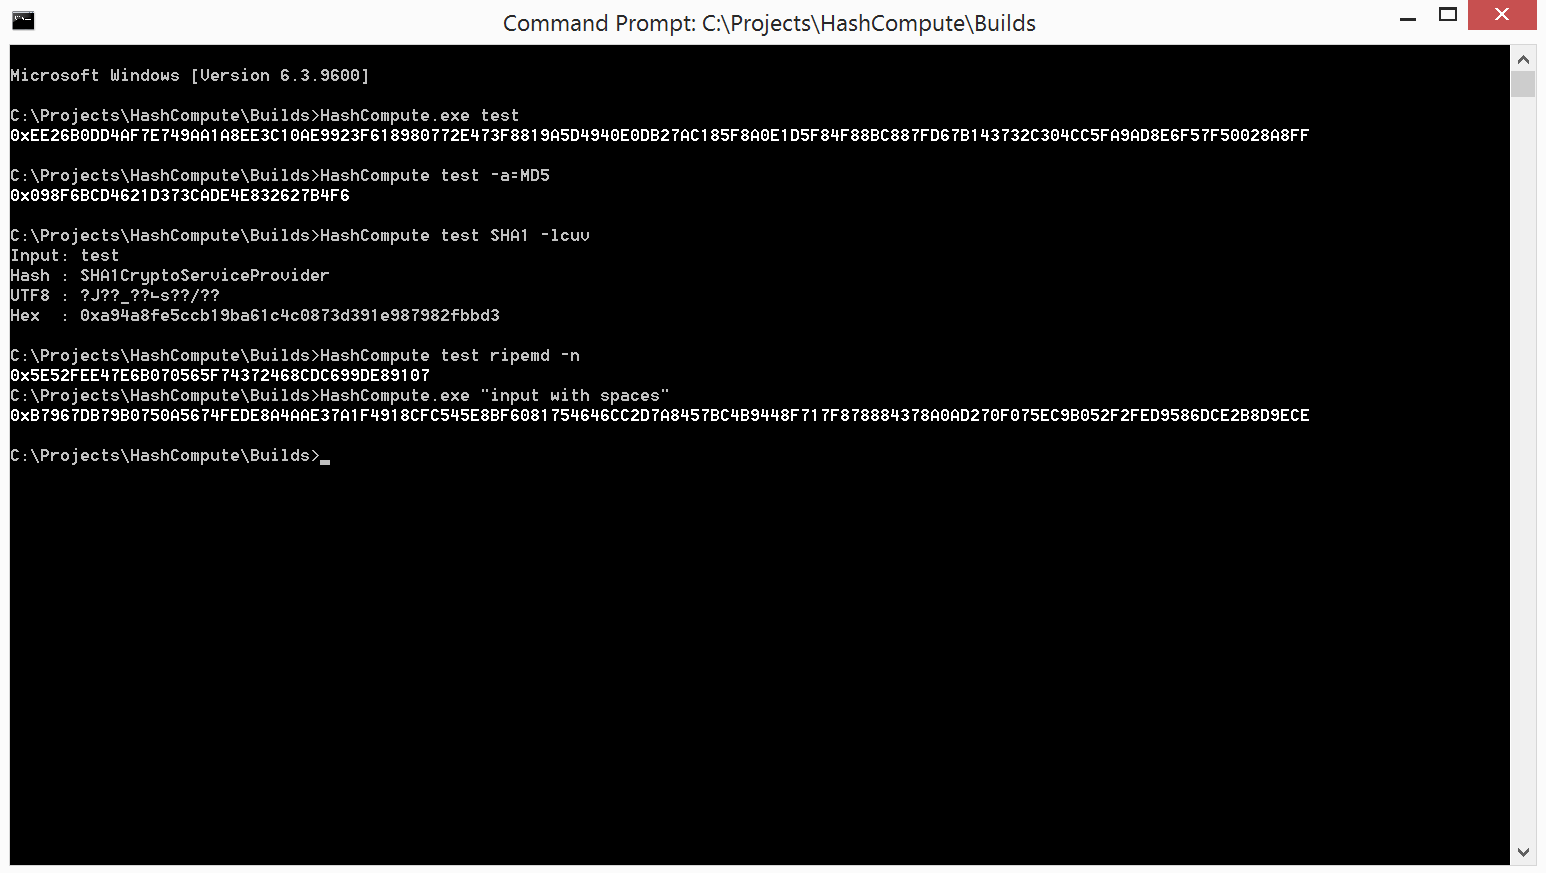
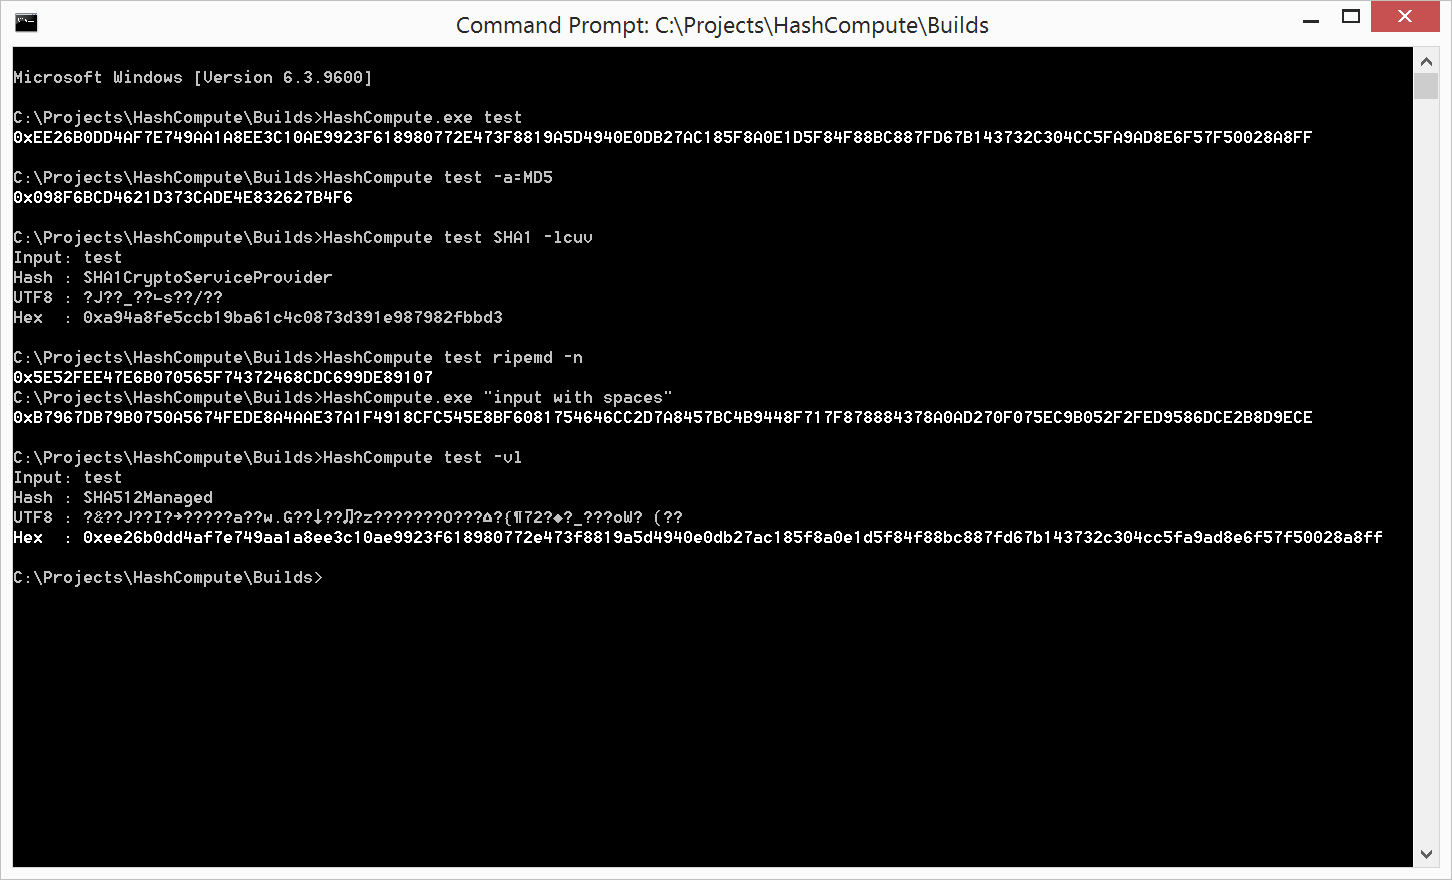
Updated screen shot

Changed region(s): [[0.0, 0.0, 1.0, 1.0]]

diff --git a/README.md b/README.md
@@ -24,6 +24,7 @@ Usage:
 Latest Changes:
 ---
  - Added various options and using NuGet packages
+ - Added all C# System.Cryptography hash algorithms
 
 Release History:
 ---
@@ -45,7 +46,7 @@ Contact:
 ---
 Eric Menze
  - [Email Me](mailto:rhaistlin+gh@gmail.com)
- - [www.ericmenze.com](http://ericmenze.com)
+ - [Portfolio](http://ericmenze.com)
  - [Github](https://github.com/Ehryk)
  - [Twitter](https://twitter.com/Ehryk42)
  - [Source Code](https://github.com/Ehryk/HashCompute)
